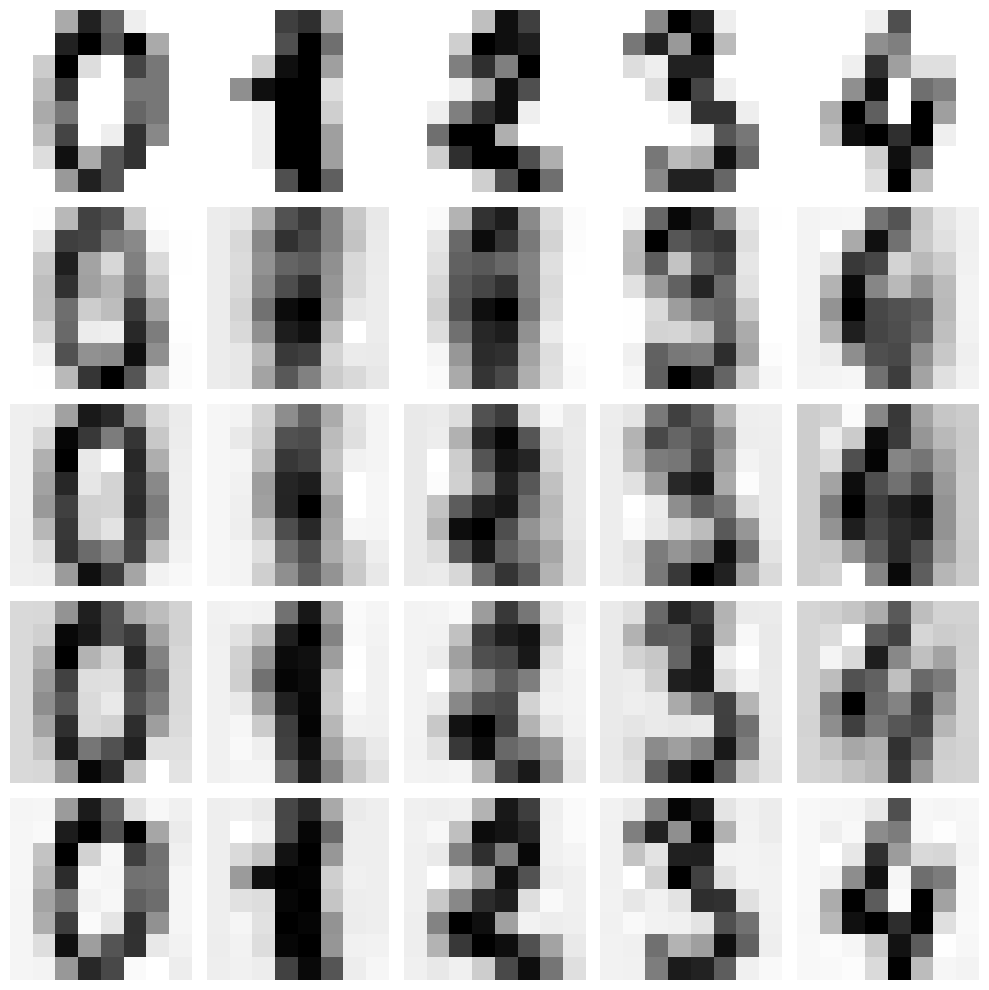
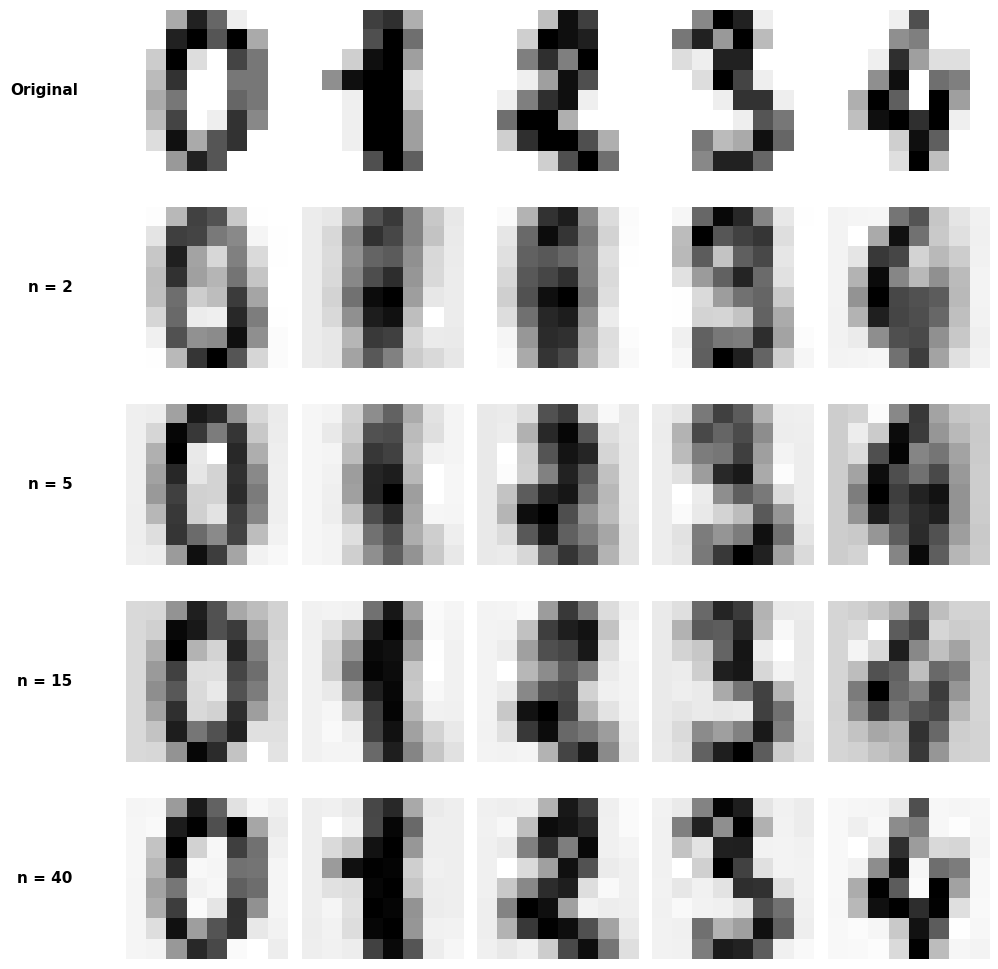
revision 3

diff --git a/assignments_03/warmup_03.py b/assignments_03/warmup_03.py
@@ -125,11 +125,10 @@ for c in c_values:
     )
     model.fit(X_train_scaled, y_train)
 
-    # Attach coef_ to the wrapper so model.coef_ exists for np.abs(model.coef_).sum()
-    model.coef_ = np.vstack([est.coef_ for est in model.estimators_])
+    # In scikit-learn 1.1+, coef_ was deprecated and removed from OneVsRestClassifier, which requires extracting coefficients via model.estimators_ on newer local environments
+    total_magnitude = sum(np.abs(est.coef_).sum() for est in model.estimators_)
     
-    print(f"C = {c}")
-    print(f"Total Coefficient Magnitude: {np.abs(model.coef_).sum():.4f}\n")
+    print(f"C: {c}, Total Coefficient Magnitude: {total_magnitude:.4f}")
 
 # As C increases, the total magnitude of the coefficients increases. This shows the effect of regularization: smaller values of C apply
 # stronger regularization, which shrinks the weights more, while larger values of C weaken regularization and allow larger coefficients. 
@@ -208,23 +207,33 @@ n_samples = 5
 
 fig, axes = plt.subplots(len(n_values) + 1, n_samples, figsize=(10, 2 * (len(n_values) + 1)))
 
-# Original images
-for j in range(n_samples):
-    axes[0, j].imshow(images[j], cmap="gray_r")
-    axes[0, j].axis("off")
+row_labels = ["Original"] + [f"n = {n} " for n in n_values]
 
-# Use ylabel for clear row labeling on the leftmost column
-axes[0, 0].set_ylabel("Original", fontsize=10, rotation=0, labelpad=50, va="center")
+# Original images row
+for j in range(n_samples):
+  axes[0, j].imshow(images[j], cmap="gray_r")
+  axes[0, j].axis("off")
 
 # Reconstructions for different n values
 for row_idx, n_comp in enumerate(n_values, start=1):
-    for j in range(n_samples):
-        recon = reconstruct_digit(j, scores, pca, n_comp)
-        axes[row_idx, j].imshow(recon, cmap="gray_r")
-        axes[row_idx, j].axis("off")
-    # Set the row label on the first column of each component tier
-    axes[row_idx, 0].set_ylabel(f"n = {n_comp}", fontsize=10, rotation=0, labelpad=50, va="center")
+  for j in range(n_samples):
+    recon = reconstruct_digit(j, scores, pca, n_comp)
+    axes[row_idx, j].imshow(recon, cmap="gray_r")
+    axes[row_idx, j].axis("off")
 
+# Add clean row labels on the left of each row
+for row_idx, label in enumerate(row_labels):
+  # Position text relative to the first subplot of each row
+  axes[row_idx, 0].text(
+      -0.3,
+      0.5,
+      label,
+      transform=axes[row_idx, 0].transAxes,
+      fontsize=11,
+      fontweight="bold",
+      va="center",
+      ha="right",
+  )
 
 plt.tight_layout()
 plt.savefig(OUTPUT / "pca_reconstructions.png", bbox_inches="tight")
